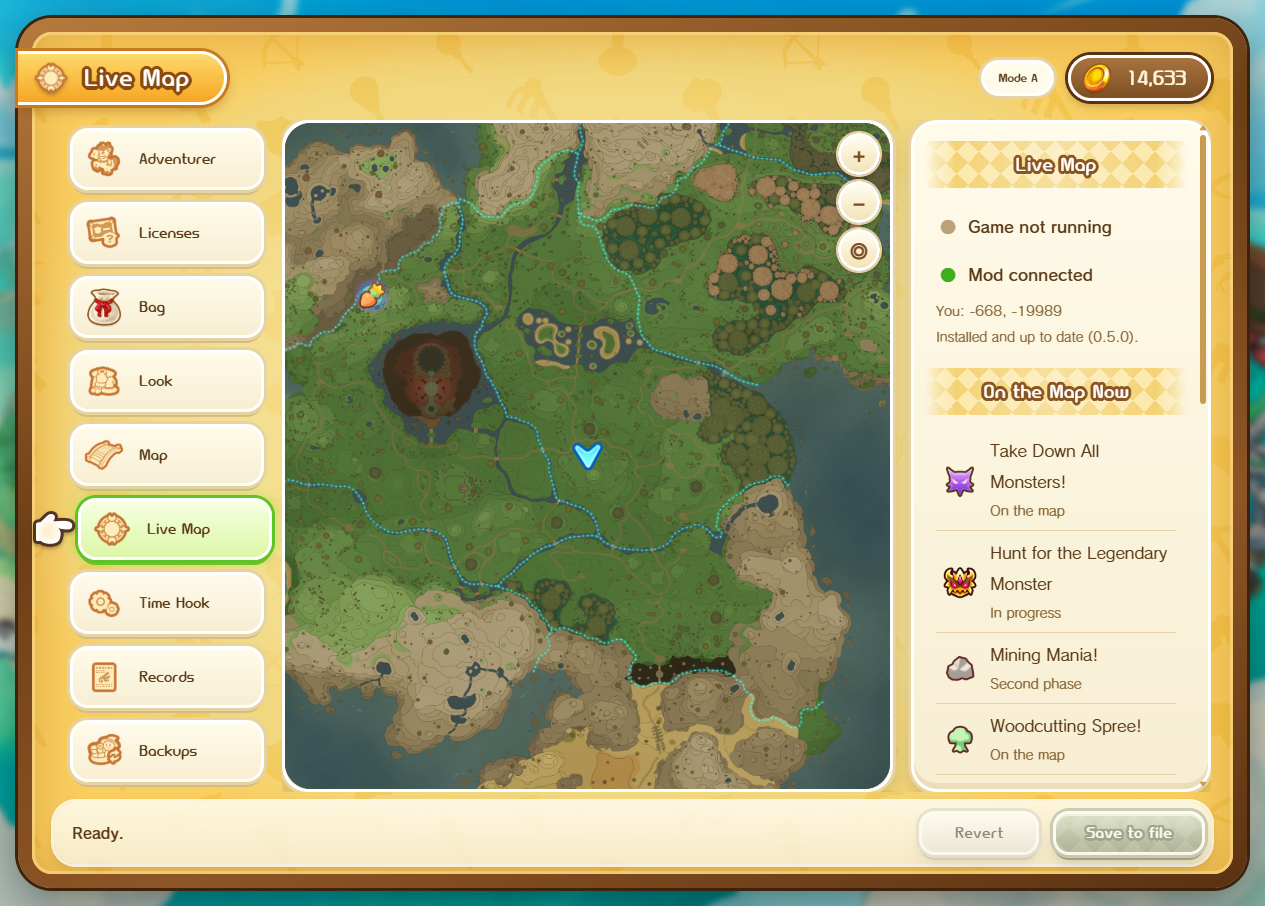
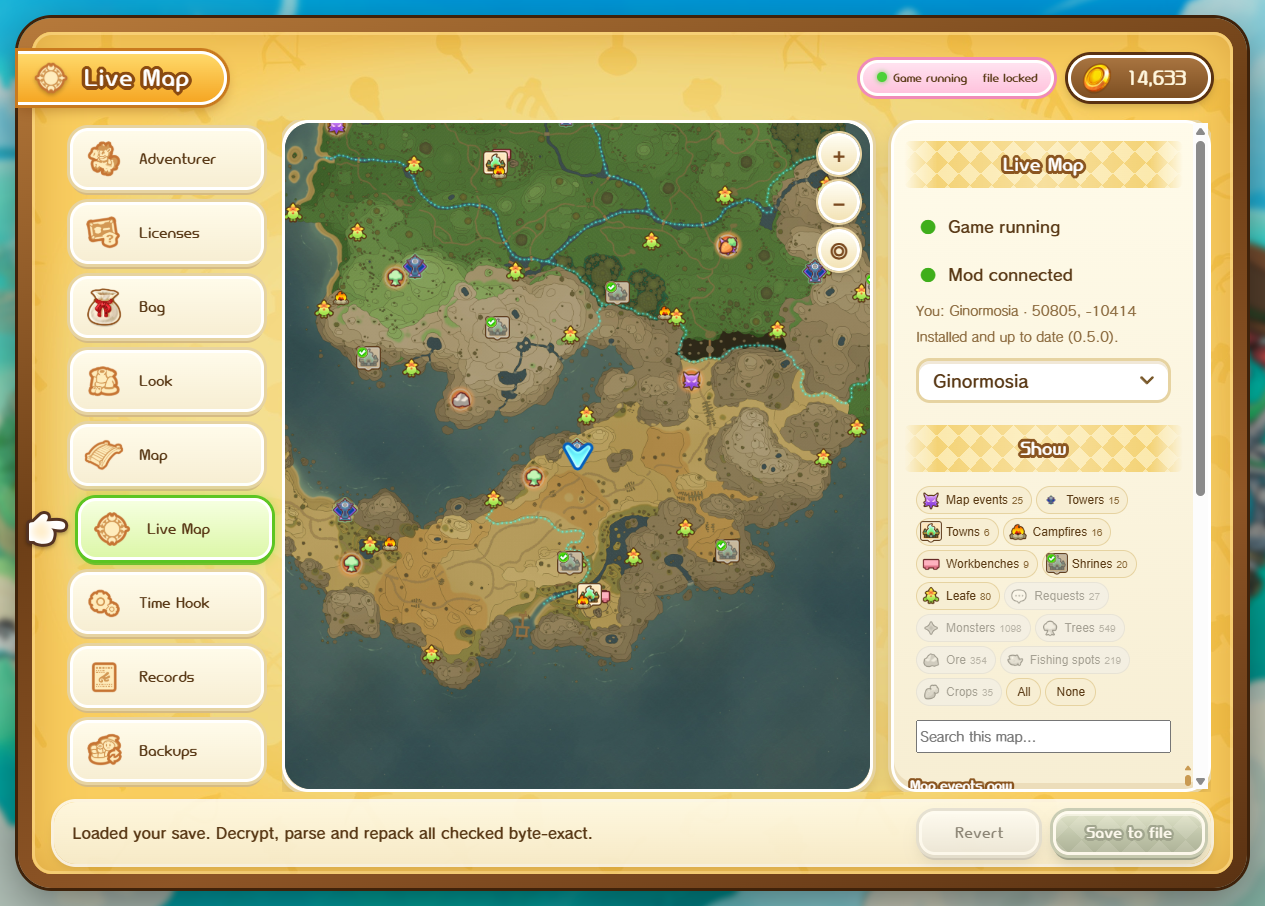
v0.2.0: Live Map shows every map and its places; credits

diff --git a/README.md b/README.md
@@ -22,12 +22,12 @@ through Steam.
 | Bag | Item amounts, add new items to any pocket |
 | Look | Your appearance, with a 3D preview |
 | Map | Which map events show up, time and weather |
-| Live Map | Map events and where you are while the game runs |
+| Live Map | Every map with towers, towns, shrines, shops, campfires, gathering spots and monsters; live map events and where you are while the game runs |
 | Time Hook | Change the running game (Dosh) |
 | Records | Your play records |
 | Backups | Automatic backups, one-click restore |
 
-Live Map and Time Hook need [UE4SS](https://github.com/UE4SS-RE/RE-UE4SS) in the game. The editor installs its own
+The Live Map's places work on their own; its live events, your position and the Time Hook need [UE4SS](https://github.com/UE4SS-RE/RE-UE4SS) in the game. The editor installs its own
 small mod for you (from either tab) once UE4SS is there. Everything else works on the save file alone.
 
 | | |
@@ -48,5 +48,6 @@ Still, keep your own copy of your save. Use it offline and at your own risk; don
 
 ## Credits
 
+- Built by Unholy with his friend Tock, his AI coding partner.
 - Item, flag and skill lists from Niedzielan's fli_save_editor.
 - Fantasy Life i is © LEVEL-5. This is a fan-made tool, not affiliated with or endorsed by LEVEL-5.
